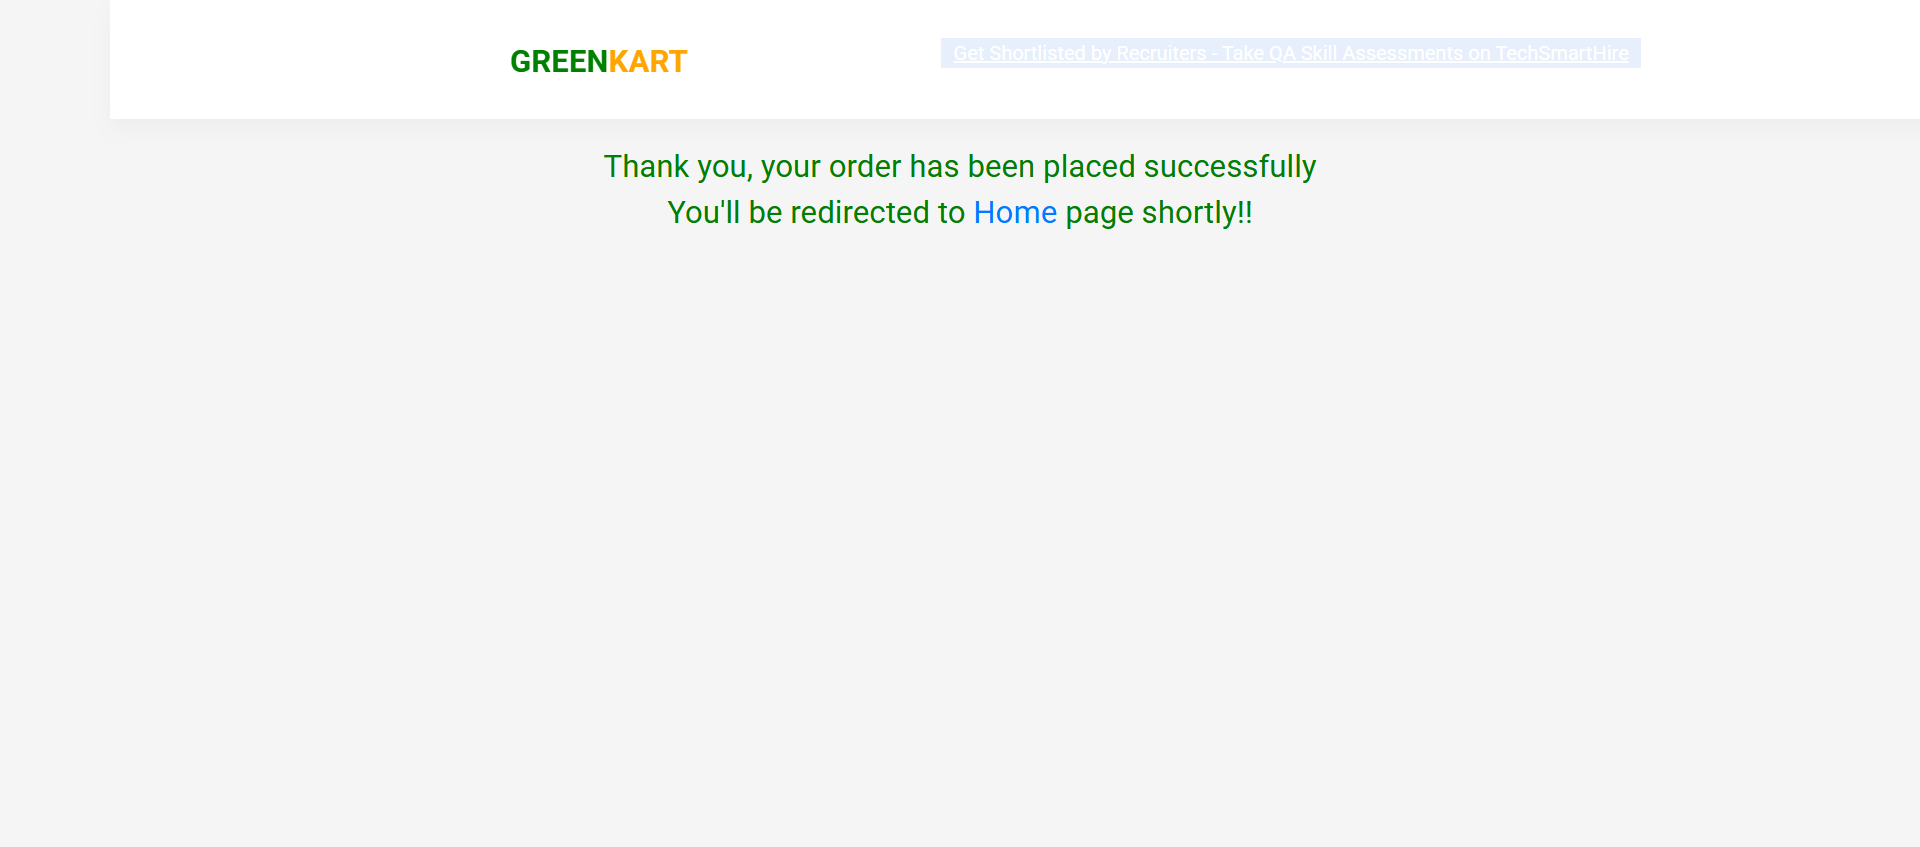
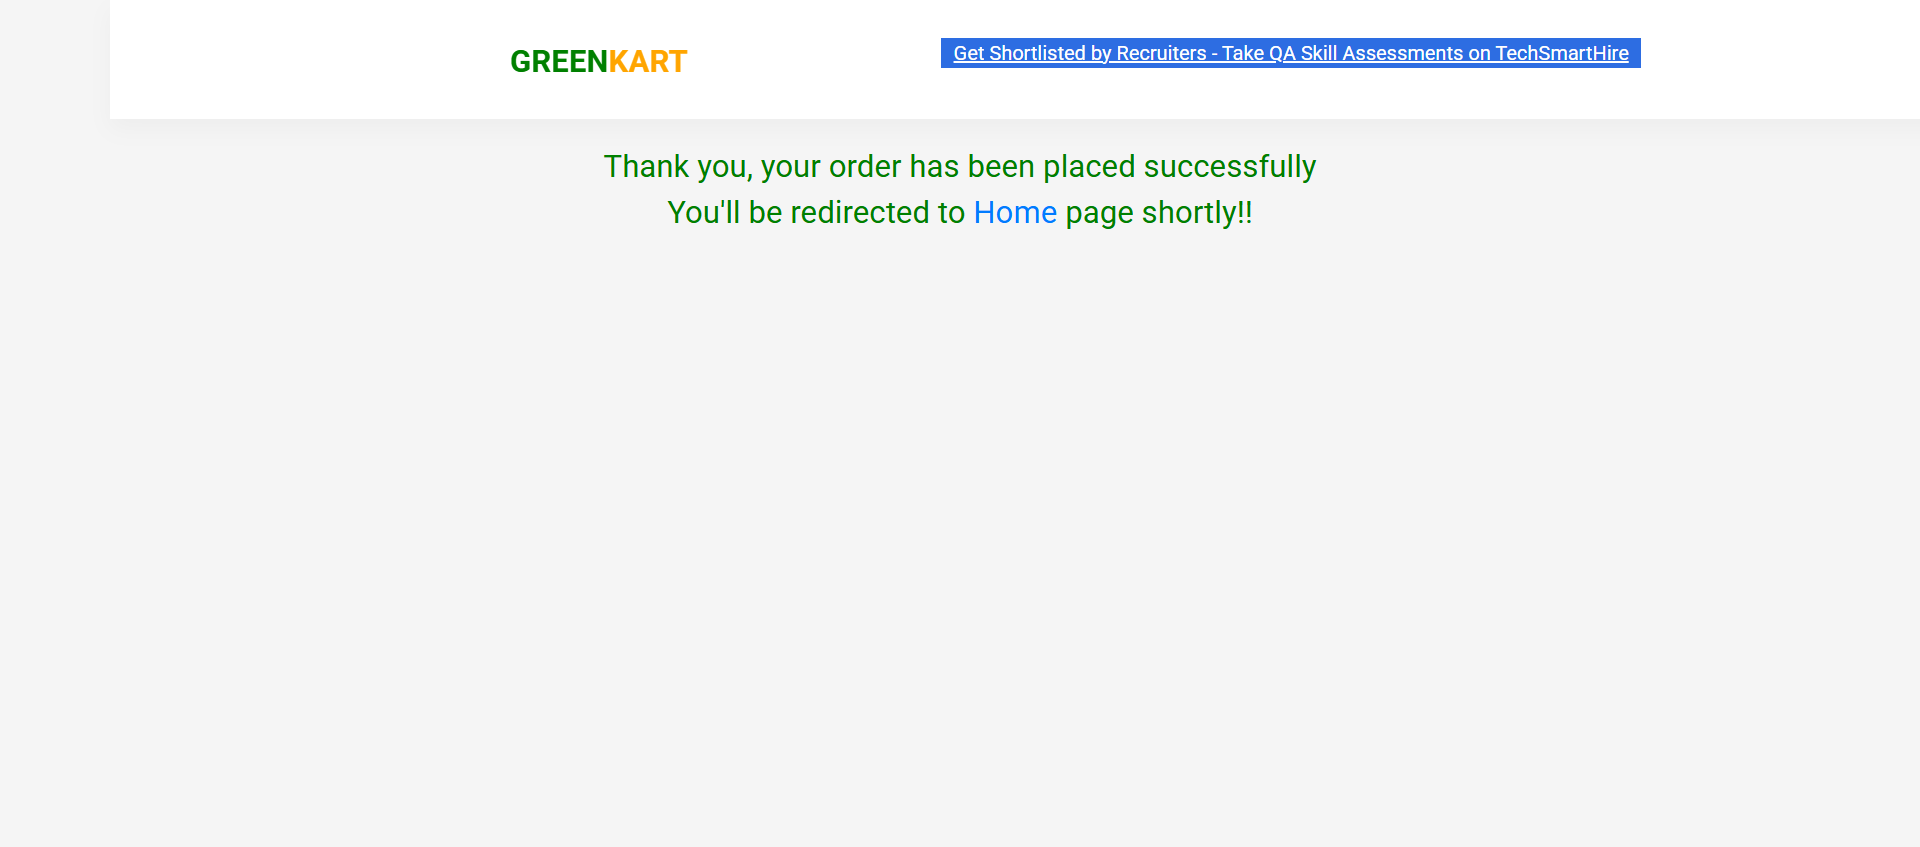
change

Changed region(s): [[0.4688, 0.0307, 0.875, 0.0921]]

diff --git a/target/ExtentReport/ExtentSpark.html b/target/ExtentReport/ExtentSpark.html
@@ -35,7 +35,7 @@
 <a href="#"><span class="badge badge-primary">BDD Cucumber Execution Report</span></a>
 </li>
 <li class="m-r-10">
-<a href="#"><span class="badge badge-primary">Mar 21, 2026 04:19:36 pm</span></a>
+<a href="#"><span class="badge badge-primary">Mar 21, 2026 04:23:41 pm</span></a>
 </li>
 </ul>
 </div>
@@ -66,13 +66,13 @@
 <div class="col-md-3">
 <div class="card"><div class="card-body">
 <p class="m-b-0">Started</p>
-<h3>Mar 21, 2026 04:19:36 pm</h3>
+<h3>Mar 21, 2026 04:23:41 pm</h3>
 </div></div>
 </div>
 <div class="col-md-3">
 <div class="card"><div class="card-body">
 <p class="m-b-0">Ended</p>
-<h3>Mar 21, 2026 04:19:50 pm</h3>
+<h3>Mar 21, 2026 04:23:57 pm</h3>
 </div></div>
 </div>
 <div class="col-md-3">
@@ -162,7 +162,7 @@
 </div></div>
 <script>
 var timeline = {
-"Add product to cart and place order":12.49
+"Add product to cart and place order":14.126
 };
 </script>
 <div class="row">
@@ -267,7 +267,7 @@ eventsCount: 5,
           <div class="test-detail">
             <p class="name">Add product to cart and place order</p>
             <p class="text-sm">
-              <span>4:19:37 pm</span> / <span>00:00:12:490</span>
+              <span>4:23:43 pm</span> / <span>00:00:14:126</span>
               <span class="badge pass-bg log float-right">Pass</span>
             </p>
           </div>
@@ -276,9 +276,9 @@ eventsCount: 5,
 <div class="p-v-10">
 <div class="info">
 <h5 class="test-status text-pass">Add product to cart and place order</h5>
-<span class='badge badge-success'>03.21.2026 4:19:37 pm</span>
-<span class='badge badge-danger'>03.21.2026 4:19:50 pm</span>
-<span class='badge badge-default'>00:00:12:490</span>
+<span class='badge badge-success'>03.21.2026 4:23:43 pm</span>
+<span class='badge badge-danger'>03.21.2026 4:23:57 pm</span>
+<span class='badge badge-default'>00:00:14:126</span>
 &middot; <span class='uri-anchor badge badge-default'>#test-id=1</span>
 <span title='Skip to the next failed step' class='badge badge-danger pointer float-right ne ml-1'><i class="fa fa-fast-forward"></i></span>
 <span title='Collapse all nodes' class='badge badge-default pointer float-right ct ml-1'><i class="fa fa-compress"></i></span>
@@ -394,7 +394,7 @@ eventsCount: 5,
 <tbody>
 <tr class="tag-test-status" status="pass">
 <td><span class="badge log pass-bg">Pass</span></td>
-<td>16:19:37 pm</td>
+<td>16:23:43 pm</td>
 <td>
 <a href="#" class="linked" test-id='1' id='2'>User adds Brocolli to cart and completes checkout</a>
 <div class="">
@@ -430,7 +430,7 @@ eventsCount: 5,
 <tbody>
 <tr class="tag-test-status" status="pass">
 <td><span class="badge log pass-bg">Pass</span></td>
-<td>16:19:37 pm</td>
+<td>16:23:43 pm</td>
 <td>
 <a href="#" class="linked" test-id='1' id='2'>User adds Brocolli to cart and completes checkout</a>
 <div class="">

diff --git a/target/surefire-reports/index.html b/target/surefire-reports/index.html
@@ -200,12 +200,12 @@ data.addRows(1);
 data.setCell(0, 0, 0)
 data.setCell(0, 1, 'runScenario')
 data.setCell(0, 2, 'runner.TestRunner')
-data.setCell(0, 3, 12733);
+data.setCell(0, 3, 14416);
 window.suiteTableData['Suite']= { tableData: data, tableDiv: 'times-div-Suite'}
 return data;
 }
               </script>
-              <span class="suite-total-time">Total running time: 12 seconds</span>
+              <span class="suite-total-time">Total running time: 14 seconds</span>
               <div id="times-div-Suite">
               </div> <!-- times-div-Suite -->
             </div> <!-- times-div -->
@@ -238,11 +238,11 @@ return data;
               </div> <!-- configuration-class before -->
               <div class="test-method">
                 <span class="method-name">runScenario("User adds Brocolli to cart and completes checkout", "Add product to cart and place order")</span>
-                <span class="method-start">1813 ms</span>
+                <span class="method-start">1784 ms</span>
               </div> <!-- test-method -->
               <div class="configuration-class after">
                 <span class="method-name">tearDownClass</span>
-                <span class="method-start">14551 ms</span>
+                <span class="method-start">16206 ms</span>
               </div> <!-- configuration-class after -->
           </div> <!-- main-panel-content rounded-window-bottom -->
         </div> <!-- panel -->

diff --git a/target/surefire-reports/Suite/CucumberTest.html b/target/surefire-reports/Suite/CucumberTest.html
@@ -57,9 +57,9 @@ function toggleAllBoxes() {
 <tr>
 <td>Tests passed/Failed/Skipped:</td><td>1/0/0</td>
 </tr><tr>
-<td>Started on:</td><td>Sat Mar 21 16:19:35 IST 2026</td>
+<td>Started on:</td><td>Sat Mar 21 16:23:41 IST 2026</td>
 </tr>
-<tr><td>Total time:</td><td>14 seconds (14786 ms)</td>
+<tr><td>Total time:</td><td>16 seconds (16470 ms)</td>
 </tr><tr>
 <td>Included groups:</td><td></td>
 </tr><tr>
@@ -78,7 +78,7 @@ function toggleAllBoxes() {
 <tr>
 <td title='runner.TestRunner.runScenario()'><b>runScenario</b><br>Test class: runner.TestRunner<br>Test method: Runs Cucumber Scenarios<br>Parameters: "User adds Brocolli to cart and completes checkout", "Add product to cart and place order"</td>
 <td></td>
-<td>12</td>
+<td>14</td>
 <td>runner.TestRunner@38d8f54a</td></tr>
 </table><p>
 </body>

diff --git a/target/surefire-reports/emailable-report.html b/target/surefire-reports/emailable-report.html
@@ -9,9 +9,9 @@
 <table>
 <tr><th>Test</th><th># Passed</th><th># Skipped</th><th># Retried</th><th># Failed</th><th>Time (ms)</th><th>Included Groups</th><th>Excluded Groups</th></tr>
 <tr><th colspan="8">Suite</th></tr>
-<tr><td><a href="#t0">CucumberTest</a></td><td class="num">1</td><td class="num">0</td><td class="num">0</td><td class="num">0</td><td class="num">14,786</td><td></td><td></td></tr>
+<tr><td><a href="#t0">CucumberTest</a></td><td class="num">1</td><td class="num">0</td><td class="num">0</td><td class="num">0</td><td class="num">16,470</td><td></td><td></td></tr>
 </table>
-<table id='summary'><thead><tr><th>Class</th><th>Method</th><th>Start</th><th>Time (ms)</th></tr></thead><tbody><tr><th colspan="4">Suite</th></tr></tbody><tbody id="t0"><tr><th colspan="4">CucumberTest &#8212; passed</th></tr><tr class="passedeven"><td rowspan="1">runner.TestRunner</td><td><a href="#m0">runScenario</a></td><td rowspan="1">1774090177635</td><td rowspan="1">12733</td></tr></tbody>
+<table id='summary'><thead><tr><th>Class</th><th>Method</th><th>Start</th><th>Time (ms)</th></tr></thead><tbody><tr><th colspan="4">Suite</th></tr></tbody><tbody id="t0"><tr><th colspan="4">CucumberTest &#8212; passed</th></tr><tr class="passedeven"><td rowspan="1">runner.TestRunner</td><td><a href="#m0">runScenario</a></td><td rowspan="1">1774090422913</td><td rowspan="1">14416</td></tr></tbody>
 </table>
 <h2>CucumberTest</h2><h3 id="m0">runner.TestRunner#runScenario</h3><table class="result"><tr class="param"><th>Parameter #1</th><th>Parameter #2</th></tr><tr class="param stripe"><td>&quot;User adds Brocolli to cart and completes checkout&quot;</td><td>&quot;Add product to cart and place order&quot;</td></tr></table><p class="totop"><a href="#summary">back to summary</a></p>
 </body>